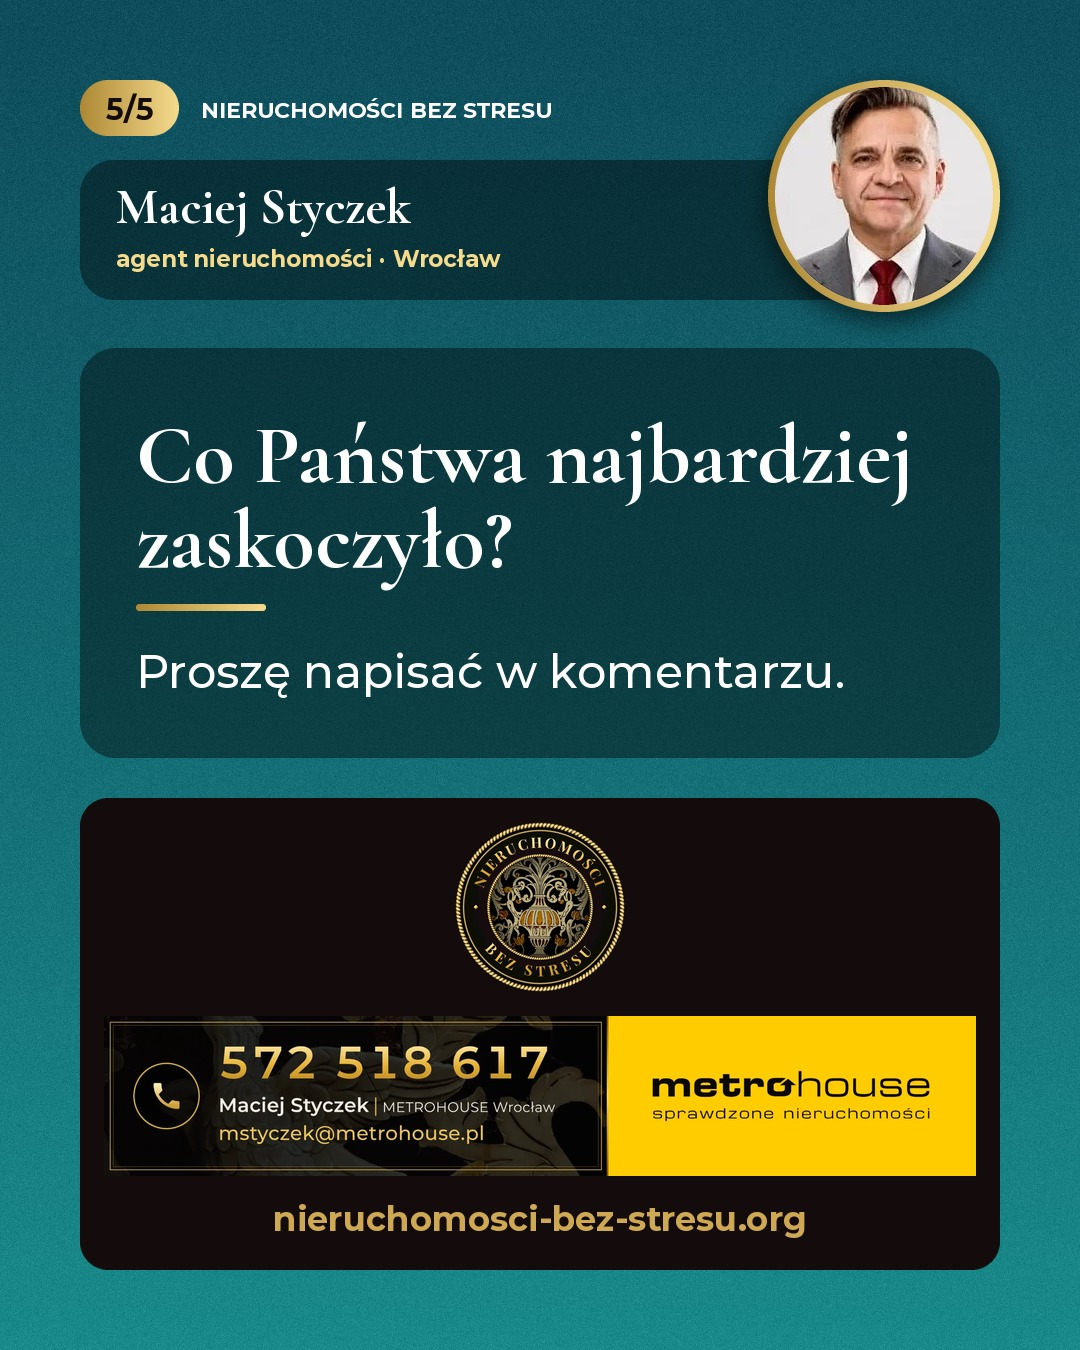
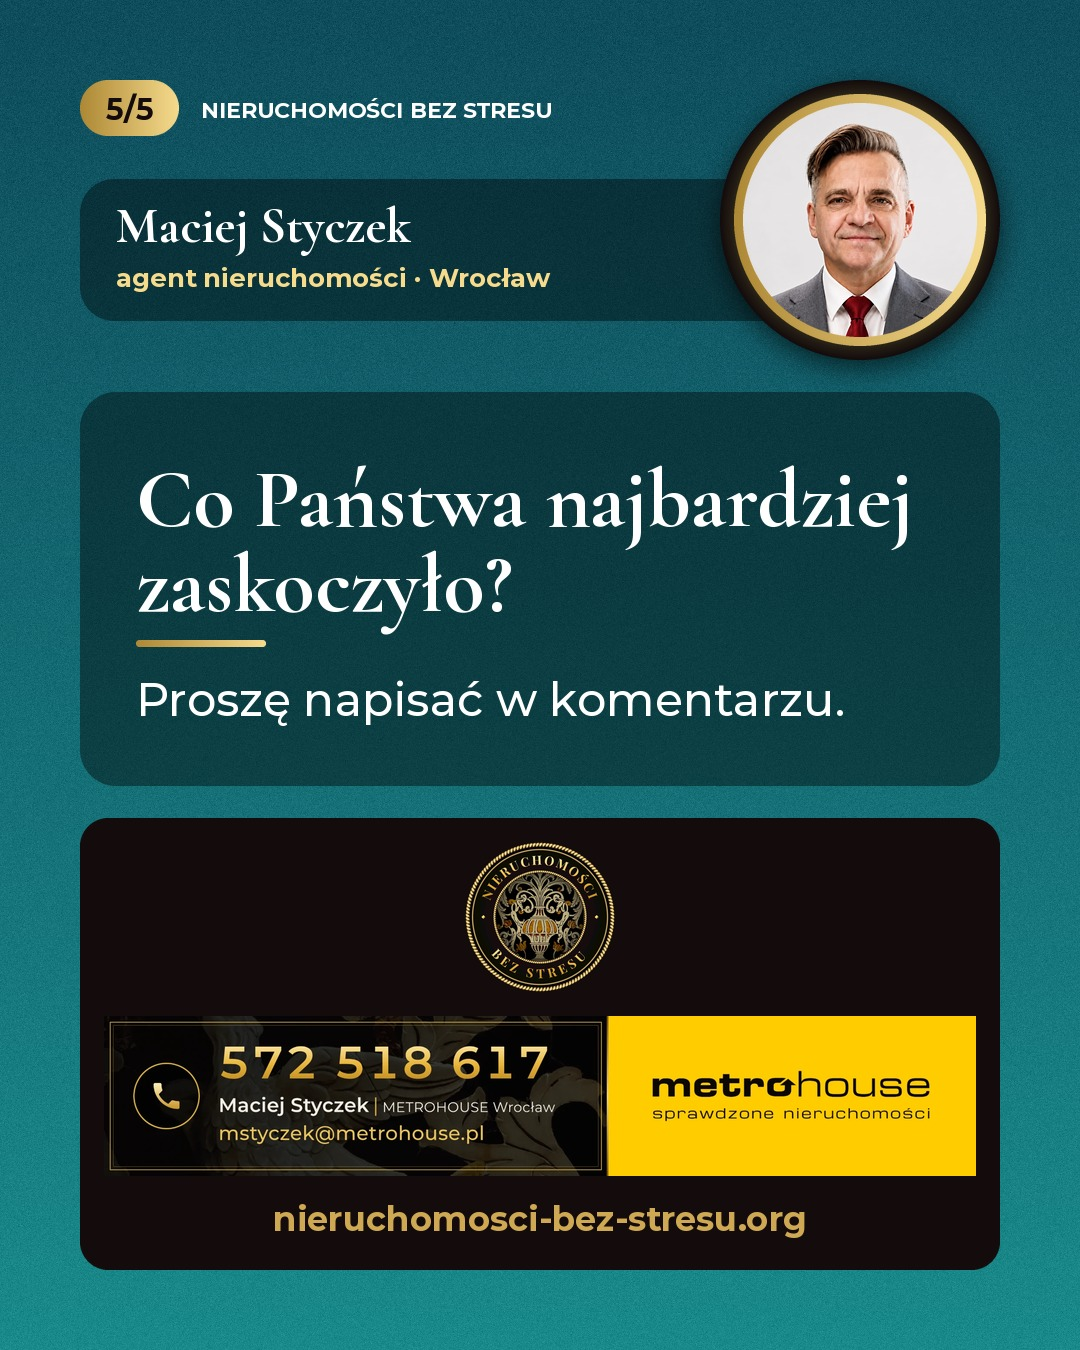
Podmień portret na wersję w pełnej rozdzielczości i powiększ go
Claude-Session: https://claude.ai/code/session_016CSz72ixcAJkDnqqqfxwXU

Changed region(s): [[0.0611, 0.0311, 0.9472, 0.5289], [0.0611, 0.5289, 0.9472, 0.7467], [0.9167, 0.5289, 0.9472, 0.56]]

diff --git a/posty/karuzele-agent/generuj_karuzele.py b/posty/karuzele-agent/generuj_karuzele.py
@@ -161,32 +161,39 @@ def logo(size, under):
     return im.convert('RGB'), alpha
 
 
-def portrait(img, cx, cy, dia, ring=7):
-    """Okrągły portret w złotej obwódce (gradient marki) z delikatnym cieniem; zwraca bbox."""
+def portrait(img, cx, cy, dia, ring=9):
+    """Okrągły portret jak w grafice wzorcowej: ciemny pierścień (#2A2418 -> #140C0C, 5% średnicy),
+    złota obwódka (gradient marki), zdjęcie; delikatny cień. Zwraca bbox."""
     x0, y0 = int(cx - dia / 2), int(cy - dia / 2)
     sh = Image.new('L', (W, H), 0)
     ImageDraw.Draw(sh).ellipse((x0, y0 + 8, x0 + dia, y0 + dia + 8), fill=150)
     img.paste((0, 0, 0), (0, 0), sh.filter(ImageFilter.GaussianBlur(12)))
-    gold_shape(img, (x0, y0, x0 + dia, y0 + dia))
+    dk = round(dia * 0.05)
+    r = np.hypot(*np.mgrid[-1:1:dia * 1j, -1:1:dia * 1j])[..., None]   # 0 w środku, 1 na brzegu
+    t = np.clip((r - (1 - 2 * dk / dia)) / (2 * dk / dia), 0, 1)
+    ring_img = Image.fromarray((np.array(hexrgb('#2A2418')) * (1 - t) + np.array(DARK) * t).astype('uint8'))
+    img.paste(ring_img, (x0, y0), rmask(dia, dia, dia // 2))
+    gold_shape(img, (x0 + dk, y0 + dk, x0 + dia - dk, y0 + dia - dk))
     src = Image.open(PORTRET).convert('RGB')
-    di = dia - 2 * ring
+    di = dia - 2 * dk - 2 * ring
     assert di <= src.width * 1.3, 'portret powiększony ponad 1,3x'
     ph = src.resize((di, di), Image.LANCZOS).filter(ImageFilter.UnsharpMask(1, 30, 2))
-    img.paste(ph, (x0 + ring, y0 + ring), rmask(di, di, di // 2))
+    img.paste(ph, (x0 + dk + ring, y0 + dk + ring), rmask(di, di, di // 2))
     return x0, y0, x0 + dia, y0 + dia
 
 
 def signature(img, d, x, cy, card_x0, card_x1=None):
     """Podpis „Maciej Styczek / agent nieruchomości · Wrocław” na ciemnej karcie (kontrast na jasnym gradiencie)."""
-    fn, fs = F(SERIF, 50), F(M700, 23)
+    fn, fs = F(SERIF, 50), F(M700, 26)
     name, role = 'Maciej Styczek', 'agent nieruchomości · Wrocław'
-    hn, hs, gap = 50, 26, 12
+    hn, hs, gap = 50, 28, 12
     top = cy - (hn + gap + hs) / 2
     x1 = card_x1 if card_x1 is not None else x + max(tw(fn, name), tw(fs, role)) + 32
-    card(img, (card_x0, top - 26, x1, top + hn + gap + hs + 26), r=34)
+    box = (card_x0, top - 26, x1, top + hn + gap + hs + 26)
+    card(img, box, r=34)
     bn, bs = d.textbbox((0, 0), name, font=fn, features=feat(fn)), d.textbbox((0, 0), role, font=fs)
     txts(img, d, [((x, top - bn[1]), name, fn, WHITE), ((x, top + hn + gap - bs[1]), role, fs, GOLD_L)])
-    return x1
+    return box
 
 
 # ---------- ikony zamiast emoji (font nie ma emoji) ----------
@@ -358,7 +365,7 @@ def endboard(img, d):
     ban = Image.open(BANER).convert('RGB')
     bw = W - 2 * M - 2 * pad
     bh = round(bw * ban.height / ban.width)  # proporcje banera zachowane
-    ls = 170
+    ls = 150
     fu = F(M700, 34)
     url = 'nieruchomosci-bez-stresu.org'
     card_h = pad + ls + 24 + bh + 26 + 44 + pad
@@ -378,7 +385,7 @@ def render(k, n, spec):
     kind = spec[0]
     if kind == 'hook':
         _, head, sub, cta, icon = spec
-        top = header(img, d, n, k) + 40
+        top = header(img, d, n, k) + 24
         # „przesuń” w ciemnej pigułce, prawy dolny róg
         fs = F(M700, 28)
         pw, ph = int(tw(fs, 'przesuń')) + 120, 58
@@ -387,28 +394,29 @@ def render(k, n, spec):
         bb = d.textbbox((0, 0), 'przesuń', font=fs)
         txt(img, d, (x0 + 28, y0 + (ph - (bb[3] - bb[1])) / 2 - bb[1]), 'przesuń', fs, WHITE)
         arrow_right(d, x0 + pw - 76, y0 + ph / 2, 46, WHITE)
-        dia = 214
+        dia = 260
         pcx, pcy = M + dia / 2, H - M - dia / 2
-        sx1 = signature(img, d, M + dia + 24, pcy, pcx)
-        assert sx1 <= x0 - 20, 'podpis nachodzi na „przesuń”'
+        sb = signature(img, d, M + dia + 24, pcy - 20, pcx)
+        assert sb[3] <= y0 - 12 or sb[2] <= x0 - 20, 'podpis nachodzi na „przesuń”'
         portrait(img, pcx, pcy, dia)
-        bottom = H - M - dia - 36
-        rest = [G(30), R(), G(32), T(sub, M700, 54, 36), G(40), CTA(cta, icon)]
+        bottom = H - M - dia - 30
+        rest = [G(24), R(), G(26), T(sub, M700, 54, 36), G(32), CTA(cta, icon)]
         stack(img, d, [[Hd(head, 108, 60, min(330, bottom - top - 2 * PAD - sum(b[0] for b in rest)))] + rest],
               top, bottom)
     elif kind == 'end':
         _, q, sub = spec
         header(img, d, n, k, corner_logo=False)
-        dia = 232
+        dia = 280
         pcx, pcy = W - M - dia / 2, M + dia / 2
-        signature(img, d, M + 36, pcy + 34, M, pcx)
+        signature(img, d, M + 36, pcy + 30, M, pcx)
         portrait(img, pcx, pcy, dia)
-        top = M + dia + 36
+        top = M + dia + 28
         cy0 = endboard(img, d)
-        rest = [G(30), R(), G(32), T(sub, M500, 46, 30)] if sub else []
+        # podpis pod pytaniem w jednej linii – miejsce na większy nagłówek
+        rest = [G(22), R(), G(24), T(sub, M500, 46, 30, maxh=int(46 * 1.3))] if sub else []
         # nagłówek dostaje tyle miejsca, ile zostaje między portretem a planszą końcową
-        blocks = [Hd(q, 84, 50, min(260, cy0 - 40 - top - 2 * PAD - sum(b[0] for b in rest)))] + rest
-        stack(img, d, [blocks], top, cy0 - 40)
+        blocks = [Hd(q, 84, 50, min(260, cy0 - 28 - top - 2 * PAD - sum(b[0] for b in rest)))] + rest
+        stack(img, d, [blocks], top, cy0 - 28)
     else:
         top = header(img, d, n, k) + 60
         stack(img, d, spec[1], top, H - M)
